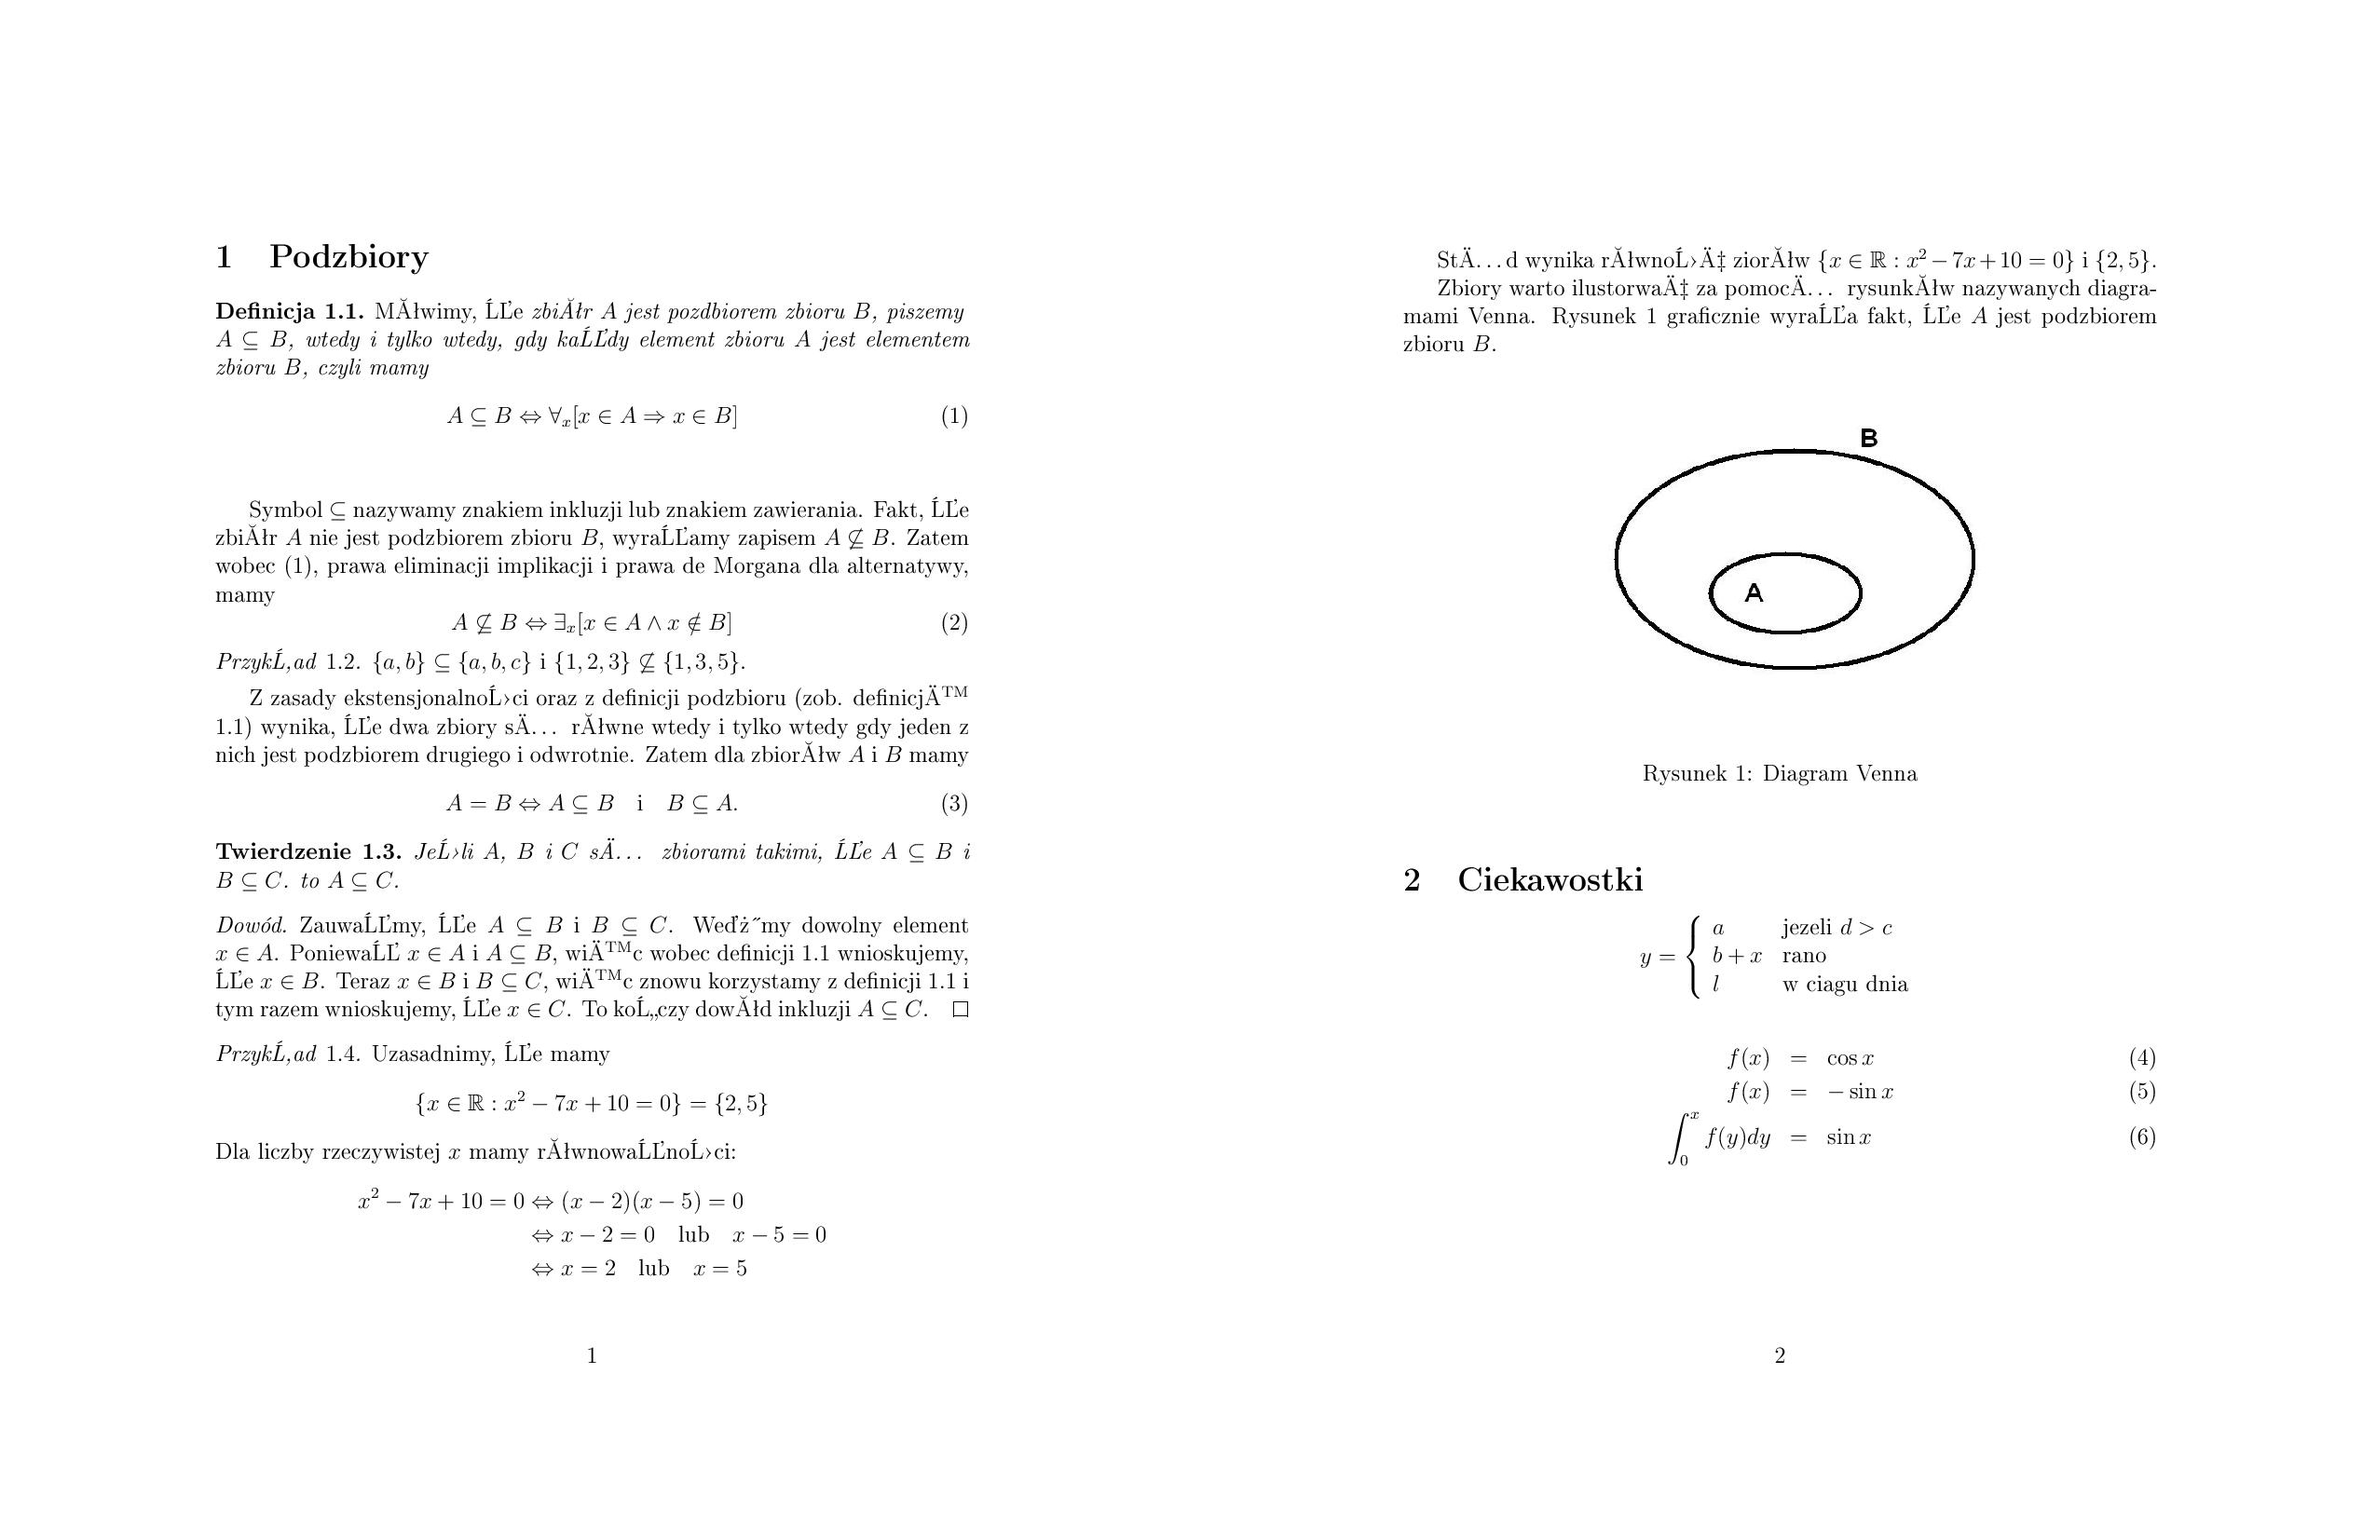
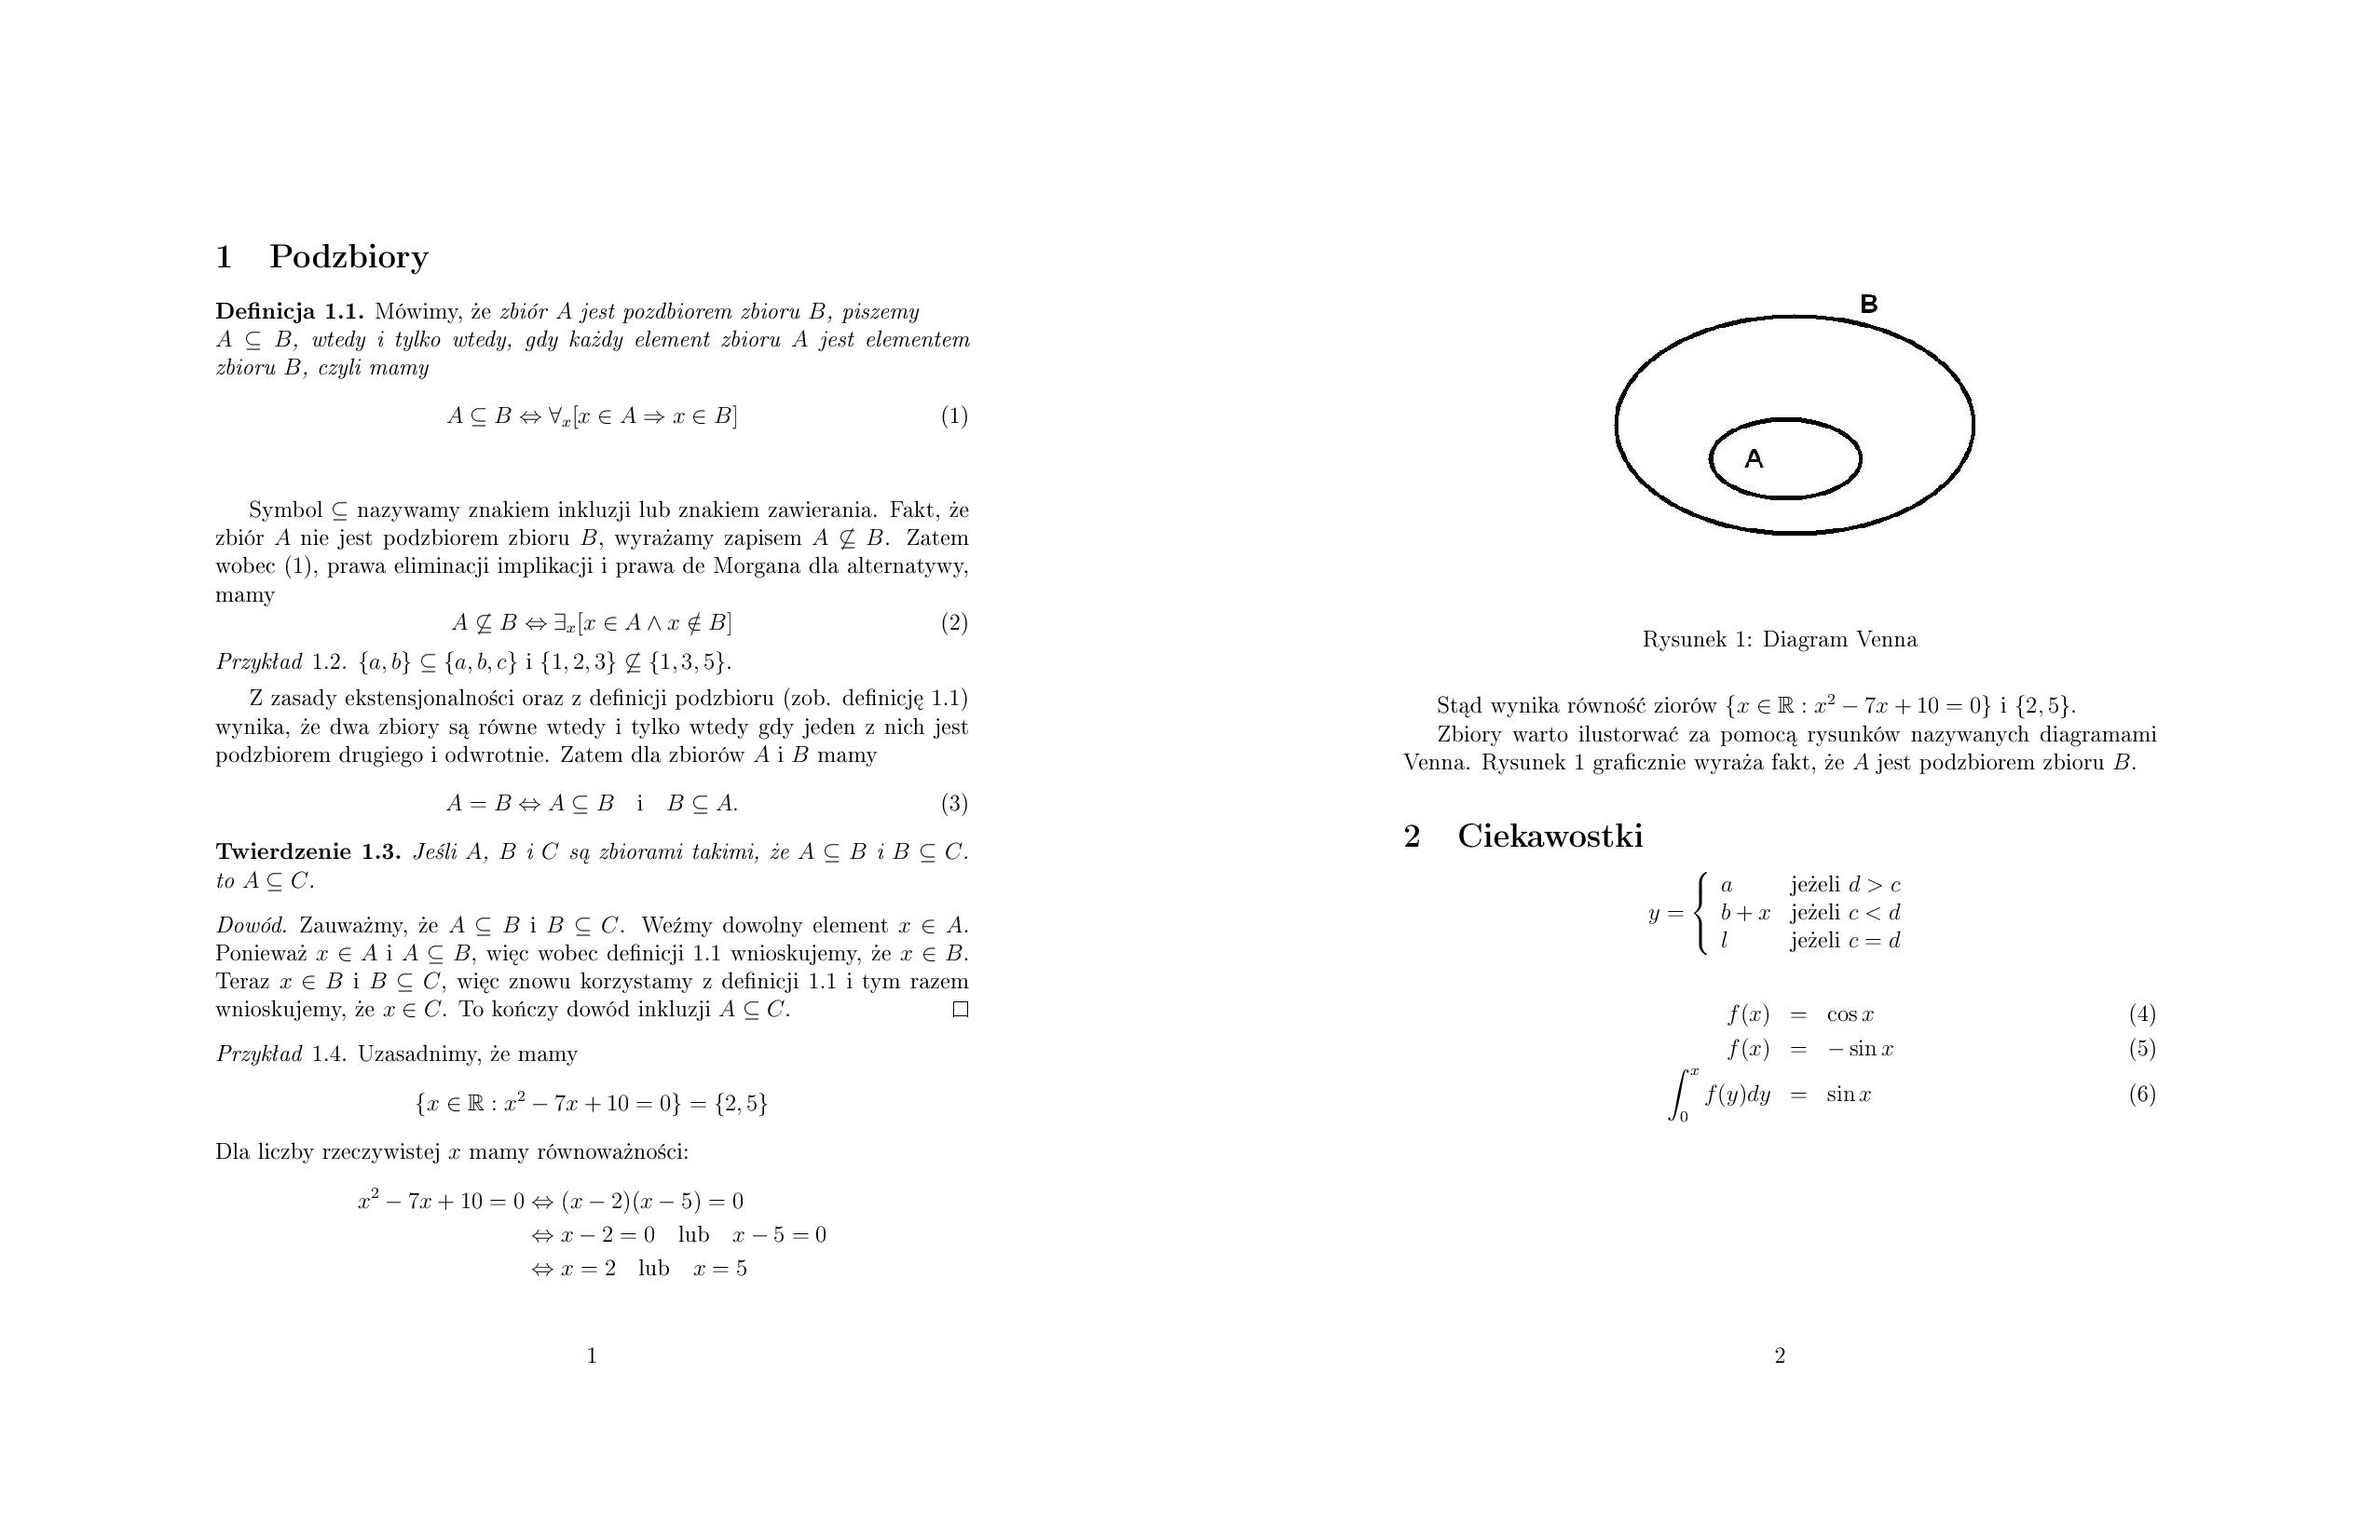
polskie znaki latex

diff --git a/index.html b/index.html
@@ -363,7 +363,7 @@ f(x) & = & -\sin x \\
 <script src="js/jquery-1.10.2.min.js"></script>
 <script src="js/lightbox-2.6.min.js"></script>
 <p><center>Po wywołaniu powyższego kodu otrzymamy :</p></center>
-<a href="img/image1.jpg" data-lightbox="image1" title="LATEX"><img src="http://i.imgur.com/RDH2IXj.jpg" alt="latex" /></a>
+<a href="img/image1.jpg" data-lightbox="image1" title="LATEX"><img src="http://i.imgur.com/712cmCJ.jpg" alt="latex" /></a>
 <br></br>
 <pre><code><font color="teal">\documentclass[12pt,a4paper,oneside]{article}
 
